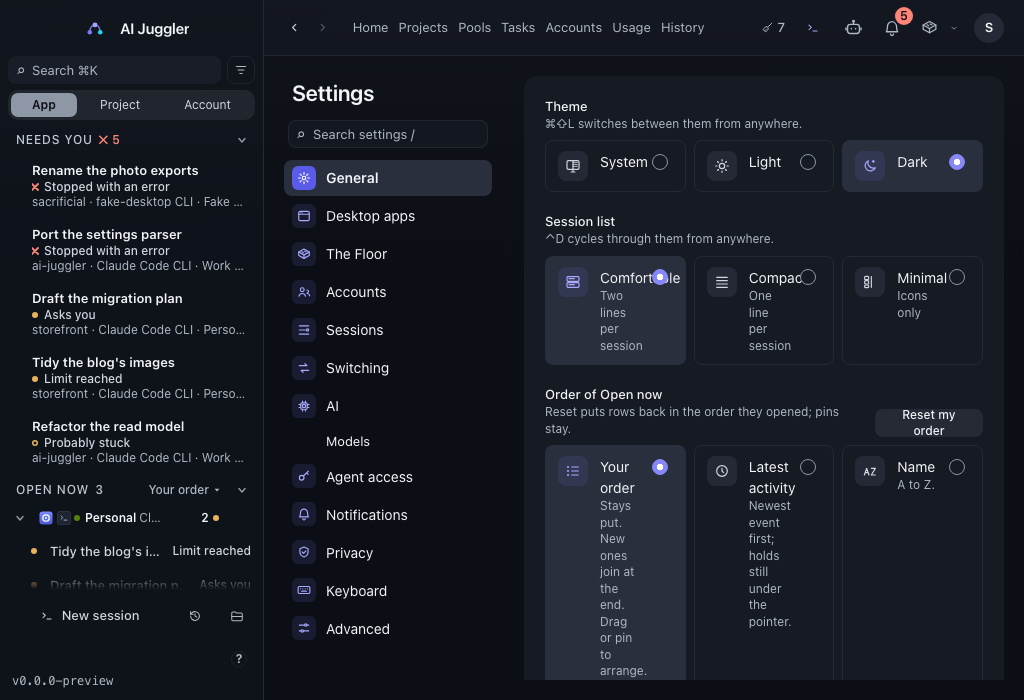
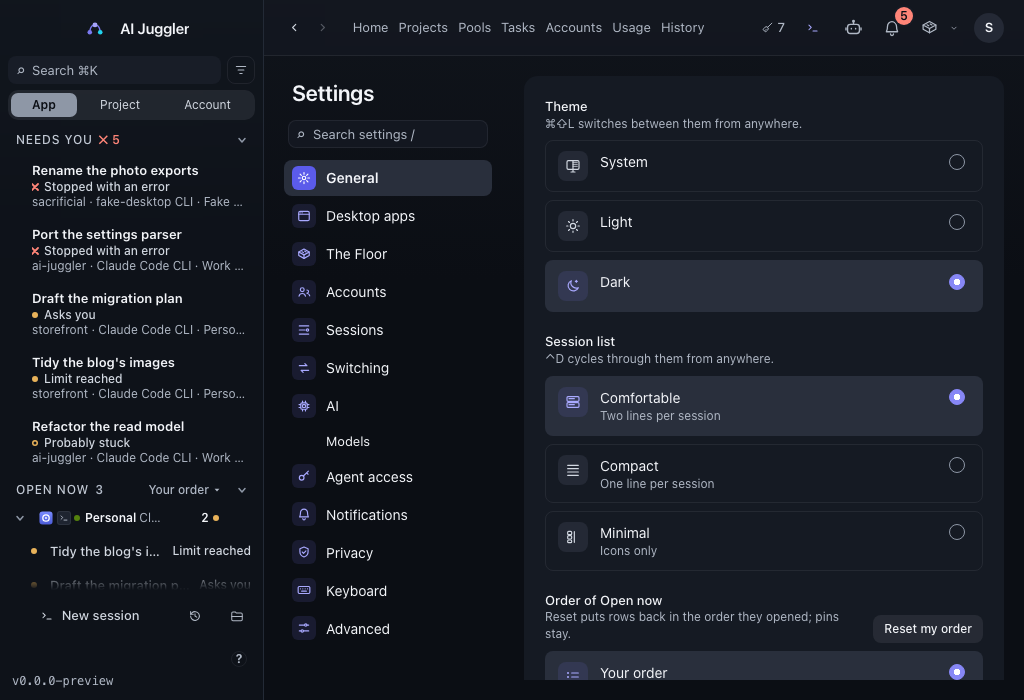
fix(ui): 0.5.2 G2 Settings' choice cards stack by the group's own width (no radio over a title at 1024), and G3 the unlinked notice is a tone card with its mark, not an outline

diff --git a/ui/src/components/AppearanceCard.tsx b/ui/src/components/AppearanceCard.tsx
@@ -19,17 +19,17 @@ import { CardTitle } from "./CardTitle";
 export function ChoiceGroup({ legend, hint, testId, labelledBy, children, end }: { legend: string; hint?: string; testId?: string; labelledBy?: string; children: ReactNode; end?: ReactNode }): JSX.Element {
   const id = `${useId().replace(/:/g, "")}-legend`;
   return (
-    <div role="group" aria-labelledby={id} className="flex flex-col gap-2" data-testid={testId}>
+    <div role="group" aria-labelledby={id} className="@container flex flex-col gap-2" data-testid={testId}>
       <div className="flex items-end justify-between gap-3">
-        <div className="flex flex-col">
+        <div className="flex min-w-0 flex-col">
           <span id={id} className="text-meta font-medium text-ink">
             {legend}
           </span>
           {hint && <span className="text-label text-muted">{hint}</span>}
         </div>
-        {end}
+        {end && <div className="shrink-0 whitespace-nowrap">{end}</div>}
       </div>
-      <div role="radiogroup" aria-labelledby={labelledBy ?? id} className="grid grid-cols-1 gap-2 sm:grid-cols-3">
+      <div role="radiogroup" aria-labelledby={labelledBy ?? id} className="grid grid-cols-1 gap-2 @xl:grid-cols-3">
         {children}
       </div>
     </div>

diff --git a/ui/src/components/FigureheadCloudCard.tsx b/ui/src/components/FigureheadCloudCard.tsx
@@ -72,10 +72,12 @@ function FigureheadFlow({ fh }: { fh: Figurehead }): JSX.Element {
     <>
       {status?.notice && (
         <div
-          className="flex flex-wrap items-center gap-2 rounded-lg border border-warning/40 px-3 py-2 text-xs"
+          className="flex flex-wrap items-center gap-2 rounded-lg bg-surface-2 px-3 py-2 text-xs text-ink"
           role="status"
           data-testid="cloud-notice"
         >
+          {/* 0.5.2 G3 (PAT-SURF): a tone card with its level's mark, never a bright outline. */}
+          <span aria-hidden="true" className="level-mark" data-level={1} data-testid="cloud-notice-mark" />
           <span className="flex-1">{status.notice} Everything on this Mac is unchanged.</span>
           <Button size="sm" variant="secondary" onClick={() => void run(figureheadDismissNotice)}>
             Dismiss

diff --git a/ui/src/components/settings-screen.test.tsx b/ui/src/components/settings-screen.test.tsx
@@ -143,6 +143,9 @@ describe("Settings — Account & Cloud", () => {
     };
     const view = render(<SettingsScreen focusCloud />);
     const notice = await view.findByTestId("cloud-notice");
+    // 0.5.2 G3: a tone card with a level mark, no bright outline (PAT-SURF).
+    expect(notice.className).not.toMatch(/border/);
+    expect(view.getByTestId("cloud-notice-mark")).toBeTruthy();
     expect(notice.textContent).toContain("unlinked");
     expect(notice.textContent).toContain("Everything on this Mac is unchanged");
     await act(async () => {

diff --git a/docs/qa/0.5.2-findings.md b/docs/qa/0.5.2-findings.md
@@ -3,8 +3,8 @@
 | # | Where | Finding | Source | Triage |
 |---|---|---|---|---|
 | G1 | Bot (AJ-E3829) | With fixture sessions ("web" running, "api" waiting), "what are my sessions" and "what needs me" end as "I don't know" on Apple's model: the grounded reply is refused at the citation check (general questions pass). | the real-model check, 2026-11-26 | to fix in 0.5.2 |
-| G2 | Settings › General cards at 1024 wide | Theme, Session list and Order cards are crushed: the radio overlaps the title ("Comfortab◉le"), descriptions wrap a word per line, "Reset my order" wraps (`97-controls/settings-general-cards-1024x700-*`). A regression from AJ-E1558's card layout. | the by-eye check of AJ-E1558's images (Sonnet), confirmed by Opus | to fix in 0.5.2 |
-| G3 | Settings › Advanced, the "This Mac was unlinked" notice | A bright outline (peach on light, light on dark) instead of a tone fill (PAT-SURF) (`44-settings/unlinked-*`). | same | to fix in 0.5.2 |
+| G2 | Settings › General cards at 1024 wide | Theme, Session list and Order cards are crushed: the radio overlaps the title ("Comfortab◉le"), descriptions wrap a word per line, "Reset my order" wraps (`97-controls/settings-general-cards-1024x700-*`). A regression from AJ-E1558's card layout. | the by-eye check of AJ-E1558's images (Sonnet), confirmed by Opus | fixed: the cards lay out by the group's own width (container query), stacking below ~576 px; the action stays on one line; re-captured and opened at 1024 and 1280 |
+| G3 | Settings › Advanced, the "This Mac was unlinked" notice | A bright outline (peach on light, light on dark) instead of a tone fill (PAT-SURF) (`44-settings/unlinked-*`). | same | fixed: a tone card with its level's mark, no outline; vitest asserts no border |
 | G4 | Gallery 44-settings | The consent and paid-locked-offline captures show Advanced › Cleanup instead of their states (8 images): the capture scrolls to the wrong place. | same | to fix in 0.5.2 |
 | G5 | Gate baselines settings-sessions-* (8) | Clipped mid-row ("On battery too", "Open AI Juggler at login" cut) with an empty band below; older than AJ-E1558. | same | to fix in 0.5.2 |
 | G6 | Gallery 62-privacy report-json | The focused "View" button's ring is bright. | same | closed: a focus ring, which PAT-SURF allows (a bright line only for focus, hover or real attention) |

diff --git a/docs/qa/evidence/_gallery/97-controls/critique.md b/docs/qa/evidence/_gallery/97-controls/critique.md
@@ -1,4 +1,4 @@
-<!-- captures: 4bb6759d3a12 -->
+<!-- captures: e22bc241d333 -->
 # 97-controls: the shared controls and the rail's View
 
 Design critique (D-57, AJ-E2814) against the reference screens: the row menus (77-menus), the rail's order menu, Usage and Processes. The baseline note says what changed on purpose; this says whether it is good.
@@ -84,3 +84,5 @@ Re-captured on the host from a clean export of HEAD (the shared tree held anothe
 | 19 | Rich-mode colour | 4 | Before (42aab7661): 2, monochrome rows, bare checkboxes, a dot or a ✓ alone for chosen. Now every row and choice its icon, on and chosen in the accent's soft step, chosen a fill. |
 
 The other lines are as the 0.5.1 critique scored them (unchanged by this work; lowest 4).
+
+0.5.2 G2 (2026-11-26, Opus): at 1024 wide the choice cards stack one per row (a container query on the group, `@xl:grid-cols-3`), so no radio overlaps a title and no description wraps a word per line; the group's action ("Reset my order") stays on one line. 1280 unchanged. Line 19 (rich-mode colour) still 4.
